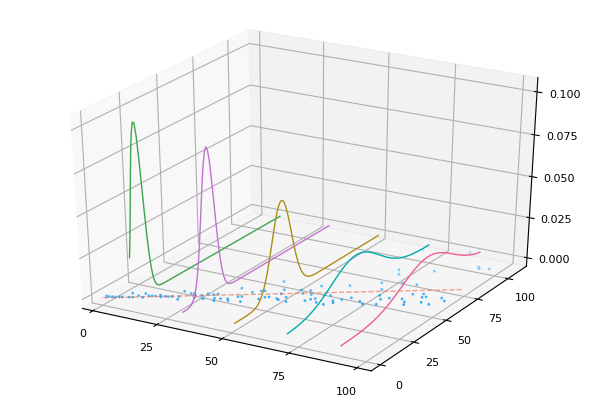
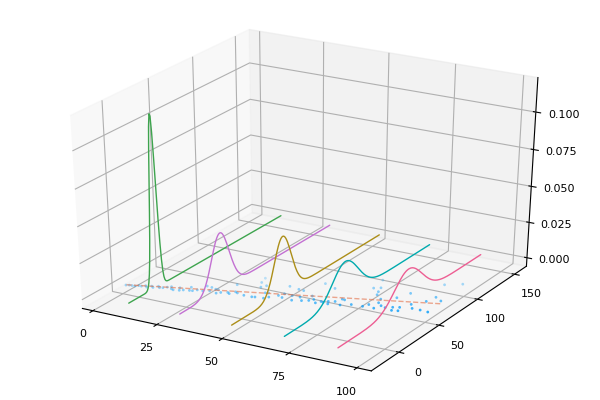
added residuals info

diff --git a/README.md b/README.md
@@ -2,3 +2,6 @@ This code shows how to generate a cool 3D scatter/distributions plot for regress
 
 ![alt text](https://github.com/mthelm85/regression-plot/blob/master/output.png "Regression/Distribution Plot")
 
+To make a nice plot of the residuals, simply replace ```data.y``` with ```residuals(ols)``` in the App.jl file:
+
+![alt text](https://github.com/mthelm85/regression-plot/blob/master/residuals.png "Residuals Plot")
